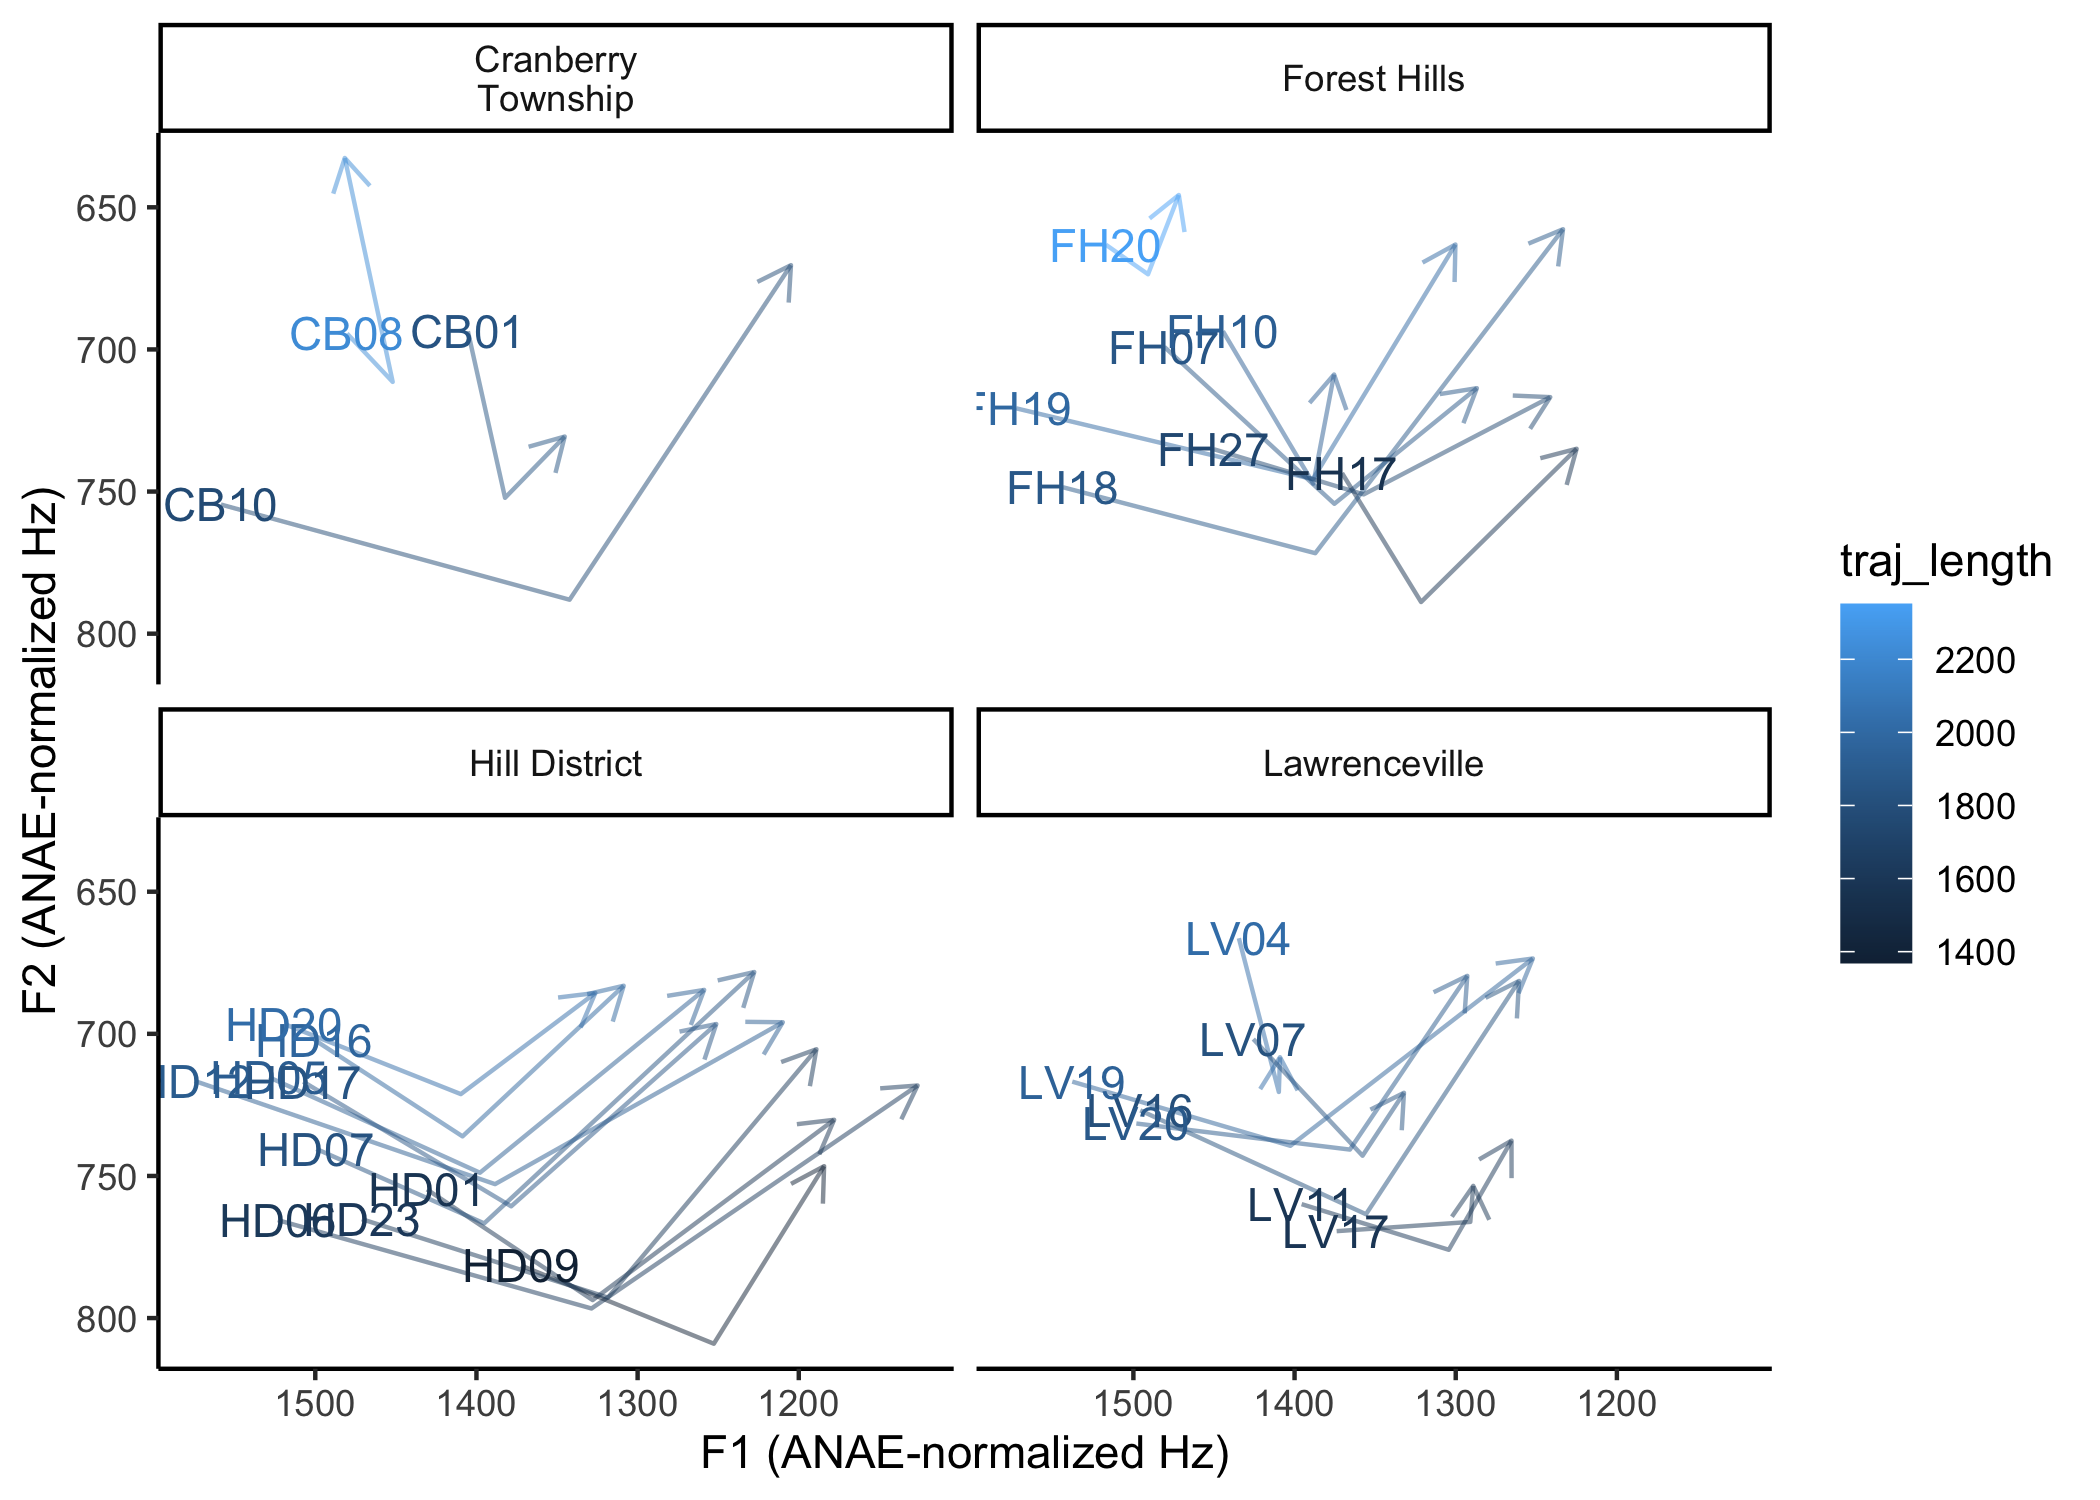
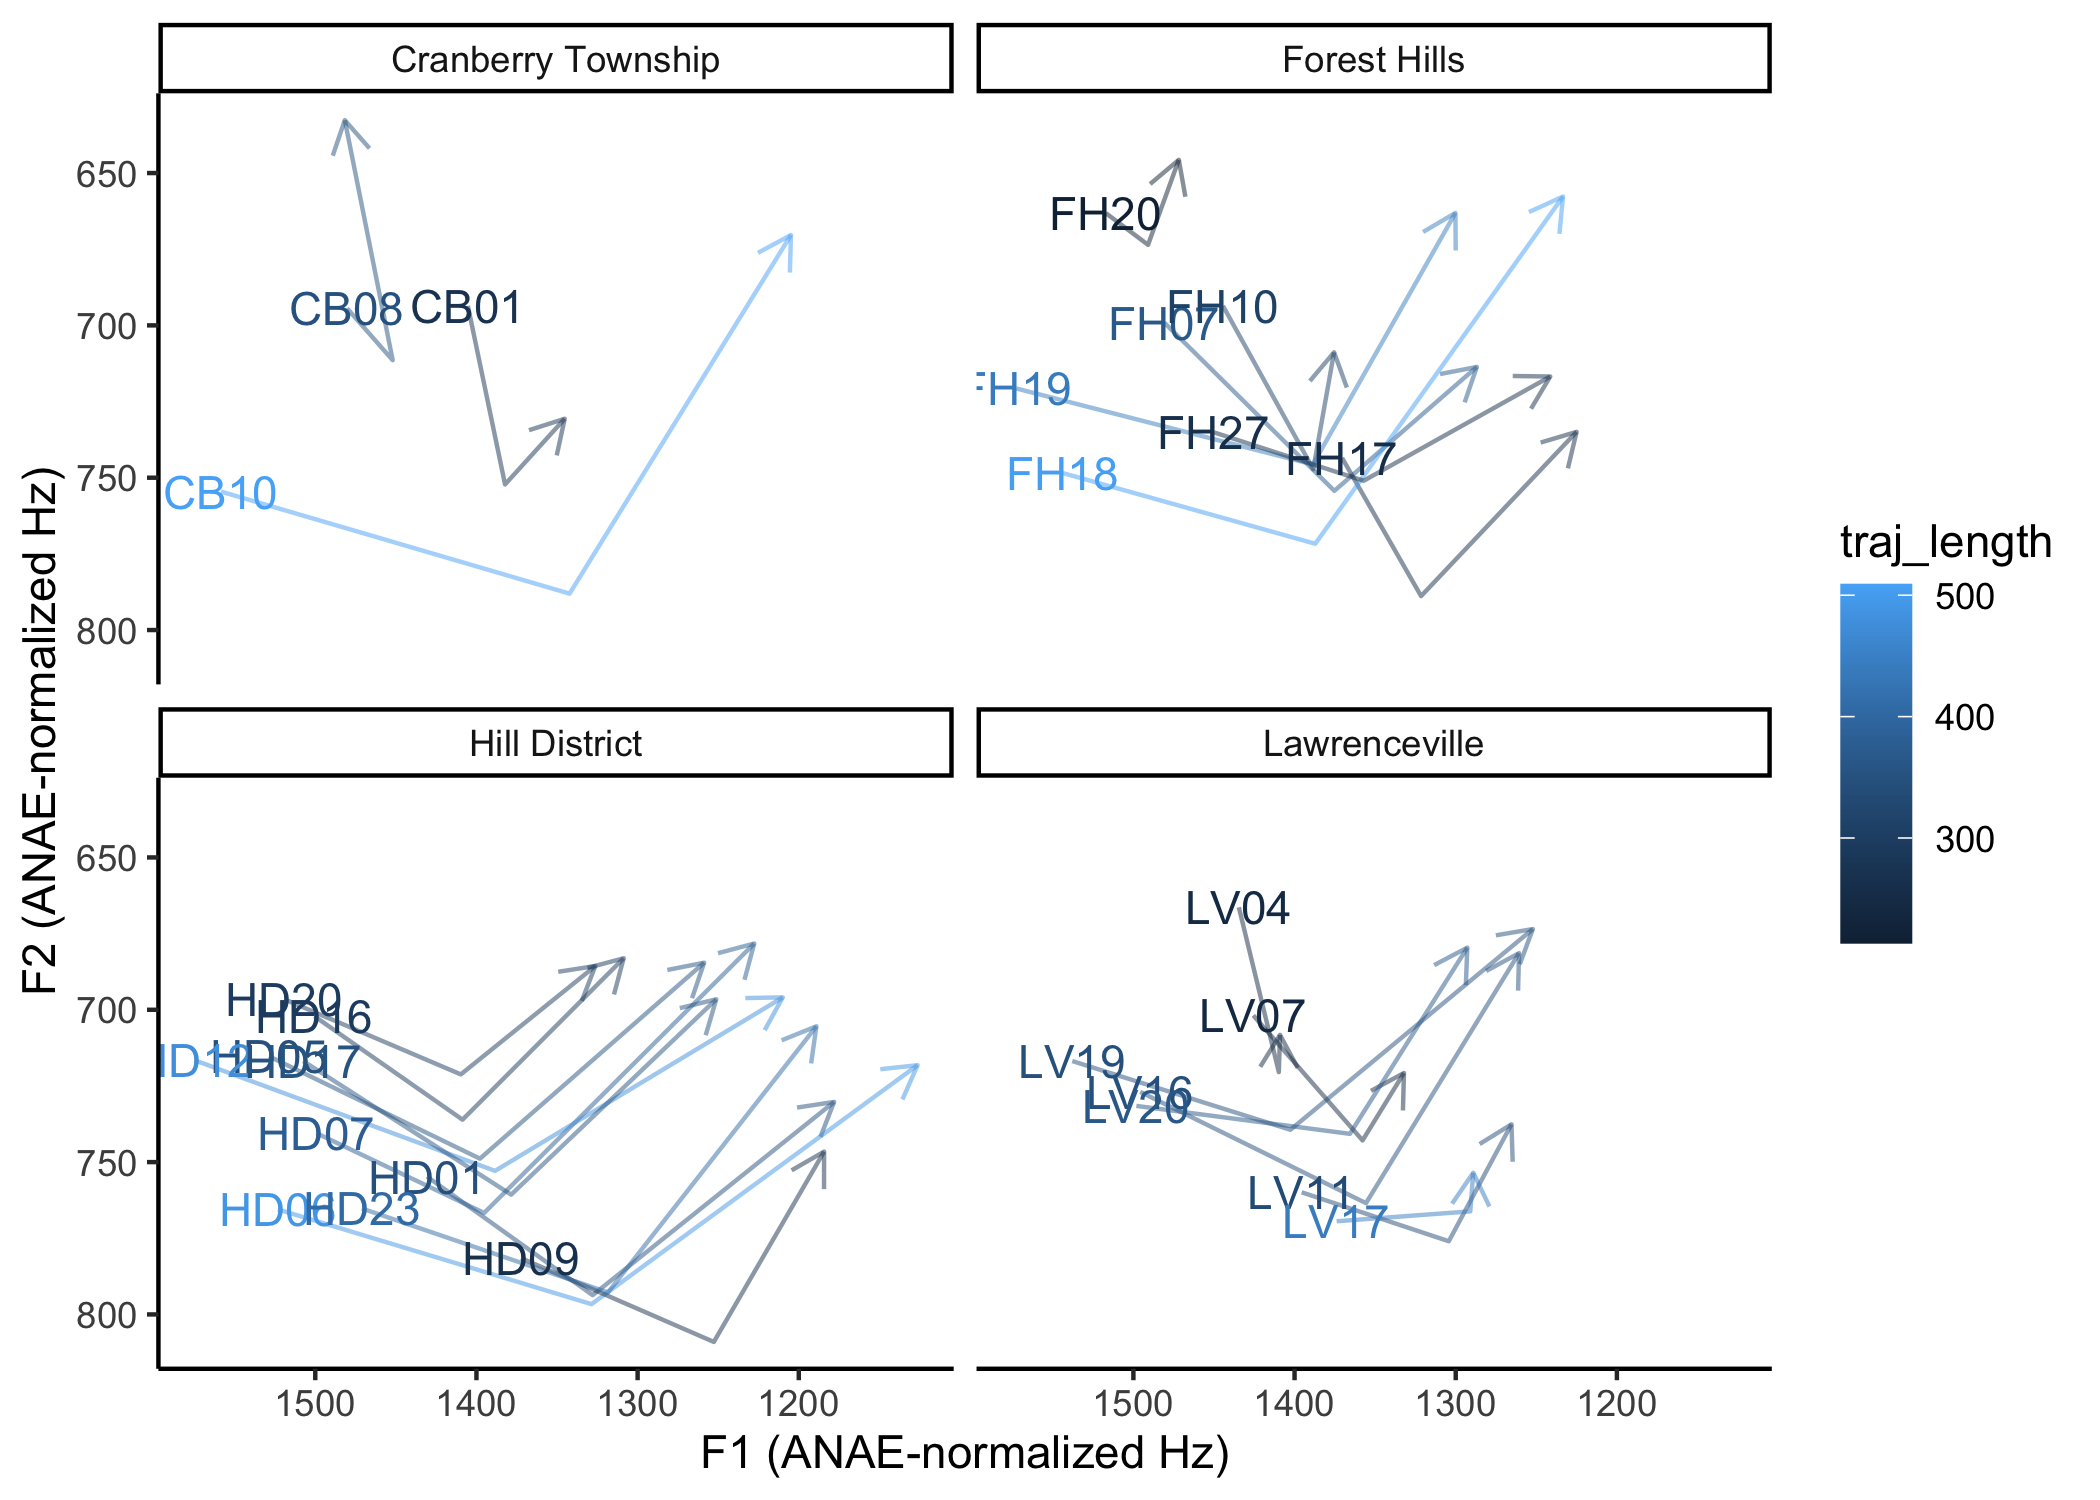
Correcting argument order for Euclidian distance; adding descriptions between code blocks

diff --git a/IntrotoAPLSCaseStudy.md b/IntrotoAPLSCaseStudy.md
@@ -20,16 +20,25 @@ You can find more about `joeyr` at
 
 ## Simple vowel case study
 
+We’ll start off with reading in the vowel data and taking a look to make
+sure it loaded correctly.
+
+While we’re at it, we’ll also create columns for the full Neighborhood
+names and a column that reminds us what vowel we’re working with.
+
 ``` r
 #reading in vowel data
 vowel_data <- read.csv("csvs/results_processwithpraat.csv") |>
-  mutate(Neighborhood = case_when(startsWith(Speaker, "CB") ~ "Cranberry Township",
+  mutate(
+    #basing the values for the Neighborhood column on the neighborhood code in the speaker column
+    Neighborhood = case_when(startsWith(Speaker, "CB") ~ "Cranberry Township",
                                   startsWith(Speaker, "FH") ~ "Forest Hills",
                                   startsWith(Speaker, "HD") ~ "Hill District",
                                   startsWith(Speaker, "LV") ~ "Lawrenceville",
-                                  TRUE ~ "Interviewer"))
+                                  TRUE ~ "Interviewer"),
+    #our results only included the "AW" vowel, so we can have "AW" be the value for every row of this column
+    vowel = "AW")
 
-#lets take a quick look to make sure the data read in correctly
 vowel_data |> 
   head()
 ```
@@ -90,20 +99,21 @@ vowel_data |>
     4  120.628         590        1454  120.667         496        1448    NA
     5  205.644         658        1385  205.686         641        1292    NA
     6  240.901         649        1402  240.949         619        1284    NA
-      Neighborhood
-    1  Interviewer
-    2  Interviewer
-    3  Interviewer
-    4  Interviewer
-    5  Interviewer
-    6  Interviewer
+      Neighborhood vowel
+    1  Interviewer    AW
+    2  Interviewer    AW
+    3  Interviewer    AW
+    4  Interviewer    AW
+    5  Interviewer    AW
+    6  Interviewer    AW
+
+The data looks good, but there’s more columns here than we need. Let’s
+just select the columns we’ll actually be working with.
 
 ``` r
-#it looks good, but there's more columns here than we need
-
 vowel_data_smaller <- vowel_data %>%
-  #dropping unnecessary columns
-  select(Speaker, Neighborhood, Text, Target.phonemes, starts_with("F"), MatchId)
+  #selecting only necessary columns
+  select(Speaker, Neighborhood, Text, Target.phonemes, starts_with("F"), MatchId, vowel)
 
 #another quick look
 vowel_data_smaller |> 
@@ -131,17 +141,26 @@ vowel_data_smaller |>
     4 g_353;em_12_108579;n_3097998-n_4584878;p_146;#=es_1_1769656;prefix=0004-;[0]=ew_0_688639;[1]=ew_0_688639
     5 g_353;em_12_108629;n_3098049-n_4584902;p_146;#=es_1_1769974;prefix=0005-;[0]=ew_0_688900;[1]=ew_0_688900
     6 g_353;em_12_108651;n_3098069-n_4584908;p_146;#=es_1_1770007;prefix=0006-;[0]=ew_0_689001;[1]=ew_0_689001
+      vowel
+    1    AW
+    2    AW
+    3    AW
+    4    AW
+    5    AW
+    6    AW
+
+Now we have a data frame that will be easier to manage in our workflow.
+
+Next, let’s remove outliers, normalize measurements, and do some
+subsetting on the data.
 
 ``` r
-#that's much better!
-
-#now that the data is easier to work with, lets remove outliers, normalize measurements, and do some subsetting
 vowel_data_outliers_removed <-
   vowel_data_smaller %>%
   group_by(Speaker) %>%
-  #finding outliers based on all F1 and F2 measurements
   ##Drop speakers w/ fewer than 75 tokens for reliable outlier-checking
   filter(n() >= 75,
+         #finding outliers based on all F1 and F2 measurements
          !find_outliers(F1.time_0.2, F2.time_0.2, F1.time_0.5, F2.time_0.5, F1.time_0.8, F2.time_0.8)) %>%
   ungroup()
 
@@ -154,21 +173,27 @@ vowel_data_normed <-
 
 #subsetting to remove incomplete words
 vowel_data_subset <- 
-  vowel_data_normed %>% 
-  filter(!str_detect(Text, "~$")) %>% 
-  #adding in a "vowel" column to help with plotting
-  mutate(vowel = "AW",
-         traj_length = eucl_dist(F2.time_0.2_anae, F1.time_0.2_anae, F2.time_0.5_anae, F1.time_0.5_anae) +
-           eucl_dist(F2.time_0.5_anae, F1.time_0.5_anae, F2.time_0.8_anae, F1.time_0.8_anae))
+  vowel_data_normed |>  
+  filter(!str_detect(Text, "~$"))
+```
 
-##Longer for geom_paths
+The final steps we’ll do before making plots are calculating the
+trajectory length of vowel tokens and pivoting the data to be longer.
+
+We’ll also take another look at the data to see what shape it’s in
+before plotting it.
+
+``` r
 vowel_data_longer <-
   vowel_data_subset |>
+  #calculating trajectory length
+  mutate(traj_length = eucl_dist(F2.time_0.2_anae, F2.time_0.5_anae, F1.time_0.2_anae, F1.time_0.5_anae) +
+           eucl_dist(F2.time_0.5_anae, F2.time_0.8_anae, F1.time_0.5_anae, F1.time_0.8_anae)) |> 
+  ##Longer for geom_paths
   pivot_longer(ends_with("_anae"), names_to=c(".value","timestamp"), names_pattern="(F[12]).time_(0\\.\\d)_anae") |>
   ##Remove unnormalized meas
   select(-contains("time_"))
 
-#and here's how the data looks before we start plotting it
 vowel_data_longer |> 
   head()
 ```
@@ -176,13 +201,15 @@ vowel_data_longer |>
     # A tibble: 6 × 10
       Speaker Neighborhood Text  Target.phonemes MatchId vowel traj_length timestamp
       <chr>   <chr>        <chr> <chr>           <chr>   <chr>       <dbl> <chr>    
-    1 Barbar… Interviewer  our   6r              g_352;… AW          1933. 0.2      
-    2 Barbar… Interviewer  our   6r              g_352;… AW          1933. 0.5      
-    3 Barbar… Interviewer  our   6r              g_352;… AW          1933. 0.8      
-    4 Barbar… Interviewer  about @b6t            g_352;… AW          2774. 0.2      
-    5 Barbar… Interviewer  about @b6t            g_352;… AW          2774. 0.5      
-    6 Barbar… Interviewer  about @b6t            g_352;… AW          2774. 0.8      
+    1 Barbar… Interviewer  our   6r              g_352;… AW           91.4 0.2      
+    2 Barbar… Interviewer  our   6r              g_352;… AW           91.4 0.5      
+    3 Barbar… Interviewer  our   6r              g_352;… AW           91.4 0.8      
+    4 Barbar… Interviewer  about @b6t            g_352;… AW           85.8 0.2      
+    5 Barbar… Interviewer  about @b6t            g_352;… AW           85.8 0.5      
+    6 Barbar… Interviewer  about @b6t            g_352;… AW           85.8 0.8      
     # ℹ 2 more variables: F1 <dbl>, F2 <dbl>
+
+The first plot is all the midpoints for all the vowels in the subset.
 
 ``` r
 #plotting the vowel data
@@ -204,6 +231,9 @@ ggplot(vowel_data_subset, aes(x = F2.time_0.5_anae, y = F1.time_0.5_anae, color 
 
 ![](Images/all_midpoints-1.png)<!-- -->
 
+The second plot is the trajectories of all the subset vowels by
+participant neighborhood, excluding tokens from interviewers.
+
 ``` r
 vowel_data_longer |>
   filter(Neighborhood != "Interviewer") |>
@@ -222,6 +252,15 @@ vowel_data_longer |>
 ![](Images/all_trajectories-1.png)<!-- -->
 
 ## Not used in article: Speaker trajectories
+
+It seems like there are some neighborhood-level differences in vowel
+productions, and we can investigate this further by looking at the
+average trajectories by speaker.
+
+Note: These plots are not included in *Introducing the Archive of
+Pittsburgh Language and Speech (APLS), a publicly accessible, richly
+annotated corpus of sociolinguistic interviews* but are included here as
+they may be of interest to other researchers.
 
 ``` r
 vowel_data_means <- 
@@ -248,58 +287,22 @@ vowel_data_means |>
 
 ![](Images/speaker_trajectories-1.png)<!-- -->
 
-But this plot is misleading. It suggests that FH20 has
-shorter-trajectory tokens and HD09 longer, but in reality, HD09’s mean
-trajectory length is the shortest, FH20’s the longest:
+This is nice, but it’s still a little messy and it isn’t capturing any
+information about participant’s average trajectory lengths.
 
-``` r
-vowel_data_means |>
-  distinct(Speaker, Neighborhood, traj_length) |>
-  arrange(traj_length)
-```
-
-    # A tibble: 29 × 3
-       Speaker        Neighborhood          traj_length
-       <chr>          <chr>                       <dbl>
-     1 HD09           "Hill District"             1369.
-     2 FH17           "Forest Hills"              1554.
-     3 HD01           "Hill District"             1572.
-     4 LV17           "Lawrenceville"             1587.
-     5 LV11           "Lawrenceville"             1592.
-     6 HD23           "Hill District"             1608.
-     7 HD06           "Hill District"             1616.
-     8 Interviewer HD "Interviewer"               1631.
-     9 FH27           "Forest Hills"              1743.
-    10 CB10           "Cranberry\nTownship"       1765.
-    # ℹ 19 more rows
-
-That’s because these are just averages over their onset, midpoint, and
-offset measurements.
-
-``` r
-vowel_data_longer |>
-  # filter(Speaker %in% c("FH20","HD09","LV04","LV17")) |>
-  filter(Speaker %in% c("FH20","HD09")) |>
-  ggplot(aes(x = F2, y = F1, color=traj_length)) +
-  #making slightly transparent points for each individual vowel
-  geom_path(aes(group=MatchId), alpha=0.5, arrow=arrow(length=unit(0.05, "inches"))) +
-  facet_wrap(~ Speaker) +
-  #flipping the scales, like a good vowel plot should
-  scale_x_reverse("F1 (ANAE-normalized Hz)") + 
-  scale_y_reverse("F2 (ANAE-normalized Hz)") +
-  labs(color="Trajectory\nlength (Hz)") +
-  theme_classic()
-```
-
-For now, let’s use color to indicate trajectory length and facet the
+Instead, let’s use color to indicate trajectory length and facet the
 plots by neighborhood to make the differences easier to see.
 
 ``` r
 vowel_data_means |>
   filter(Neighborhood != "Interviewer") |>
+  #changing Cranberry Township back to a space instead of a newline break
+  mutate(across(Neighborhood, \(x) if_else(x=="Cranberry\nTownship", "Cranberry Township", x))) |> 
   ggplot(aes(x = F2, y = F1, color=traj_length)) +
   geom_path(aes(group=Speaker), alpha=0.5,arrow=arrow(length=unit(0.125, "inches"))) +
   geom_text(data=vowel_data_means |>
+              #changing Cranberry Township back to a space instead of a newline break
+              mutate(across(Neighborhood, \(x) if_else(x=="Cranberry\nTownship", "Cranberry Township", x))) |> 
               filter(Neighborhood != "Interviewer",
                      timestamp==0.2),
             aes(label = Speaker), show.legend=FALSE) +
